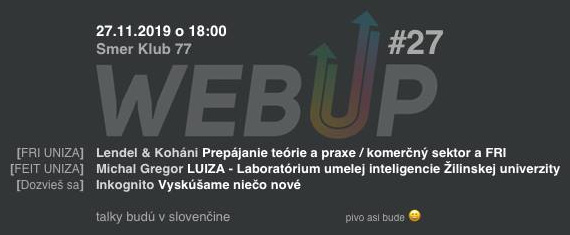
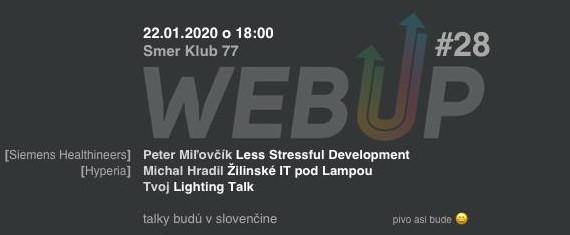
Updated event from 27 to 28

diff --git a/index.html b/index.html
@@ -37,8 +37,8 @@
         <p>Monthly technology community meetup in Zilina. Focused on web technologies and all related (backend, data, best practices).</p>
 
         <div class="event-root">
-            <a class="event-link" href="https://www.facebook.com/events/696597960827679/">
-                <img class="event-image" src="assets/event.jpg?v=1" alt="WebUP #27"/>
+            <a class="event-link" href="https://www.facebook.com/events/504140926889350/">
+                <img class="event-image" src="assets/event.jpg?v=2" alt="WebUP #28"/>
             </a>
         </div>
 
